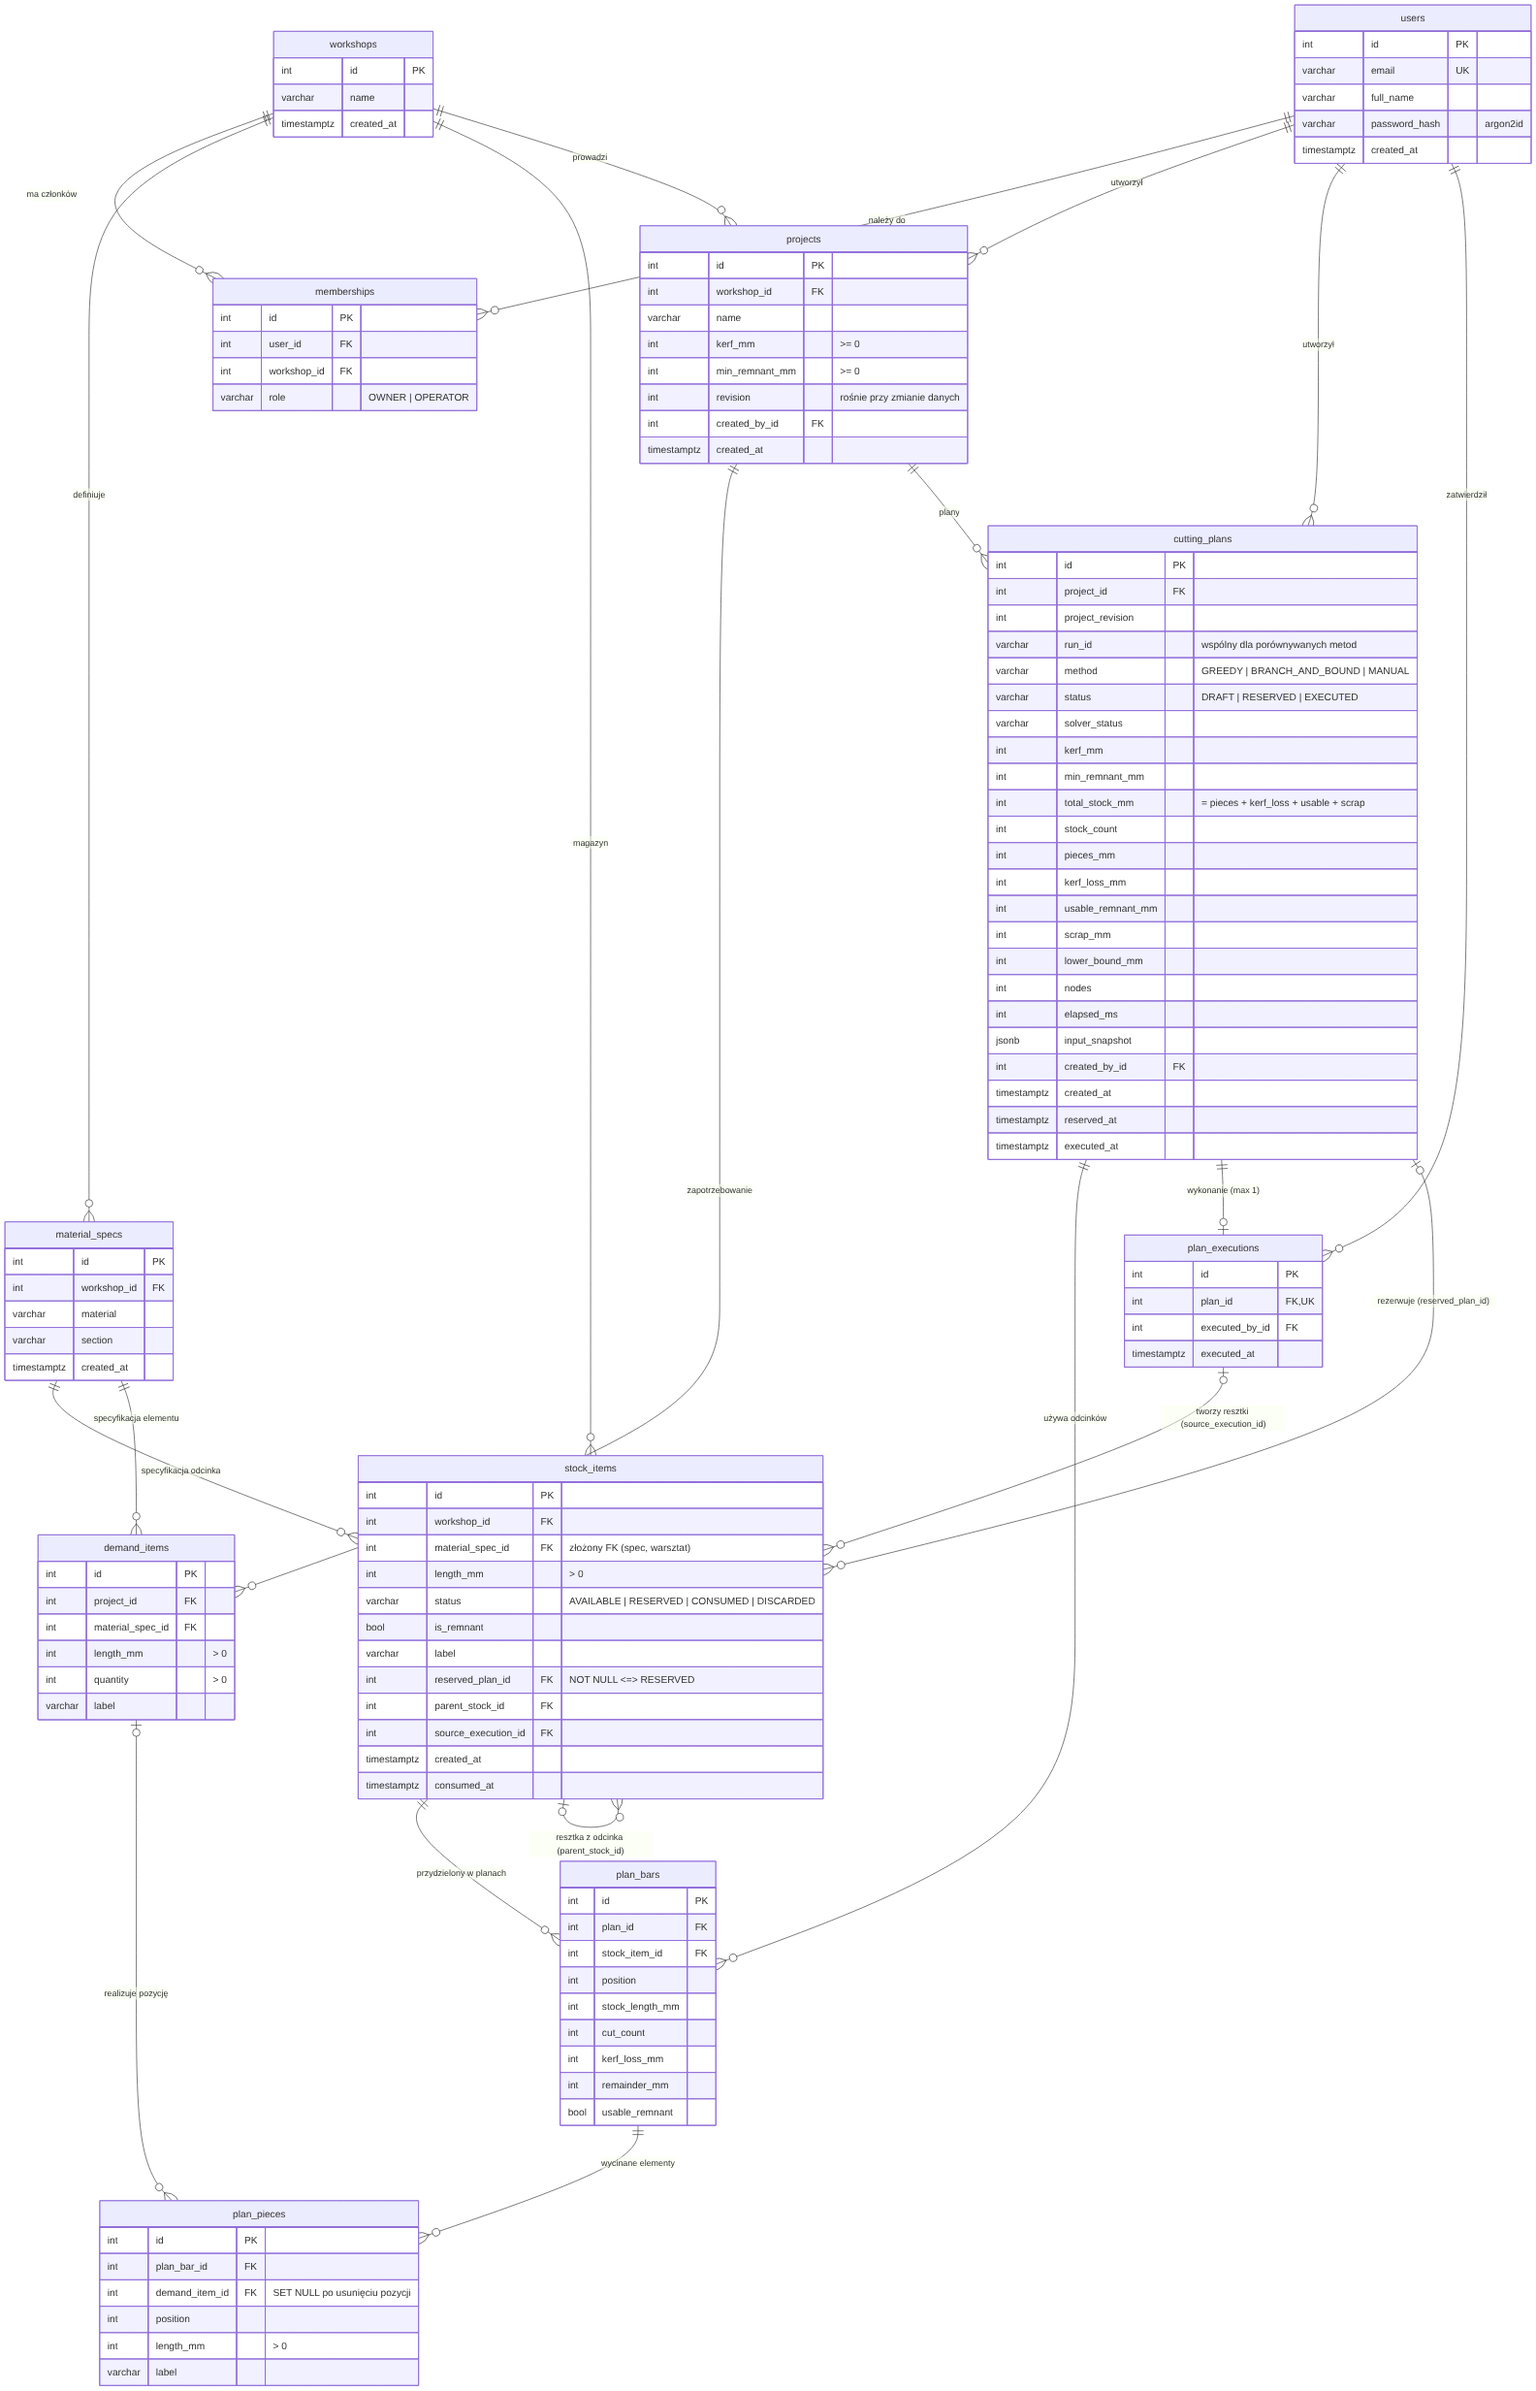
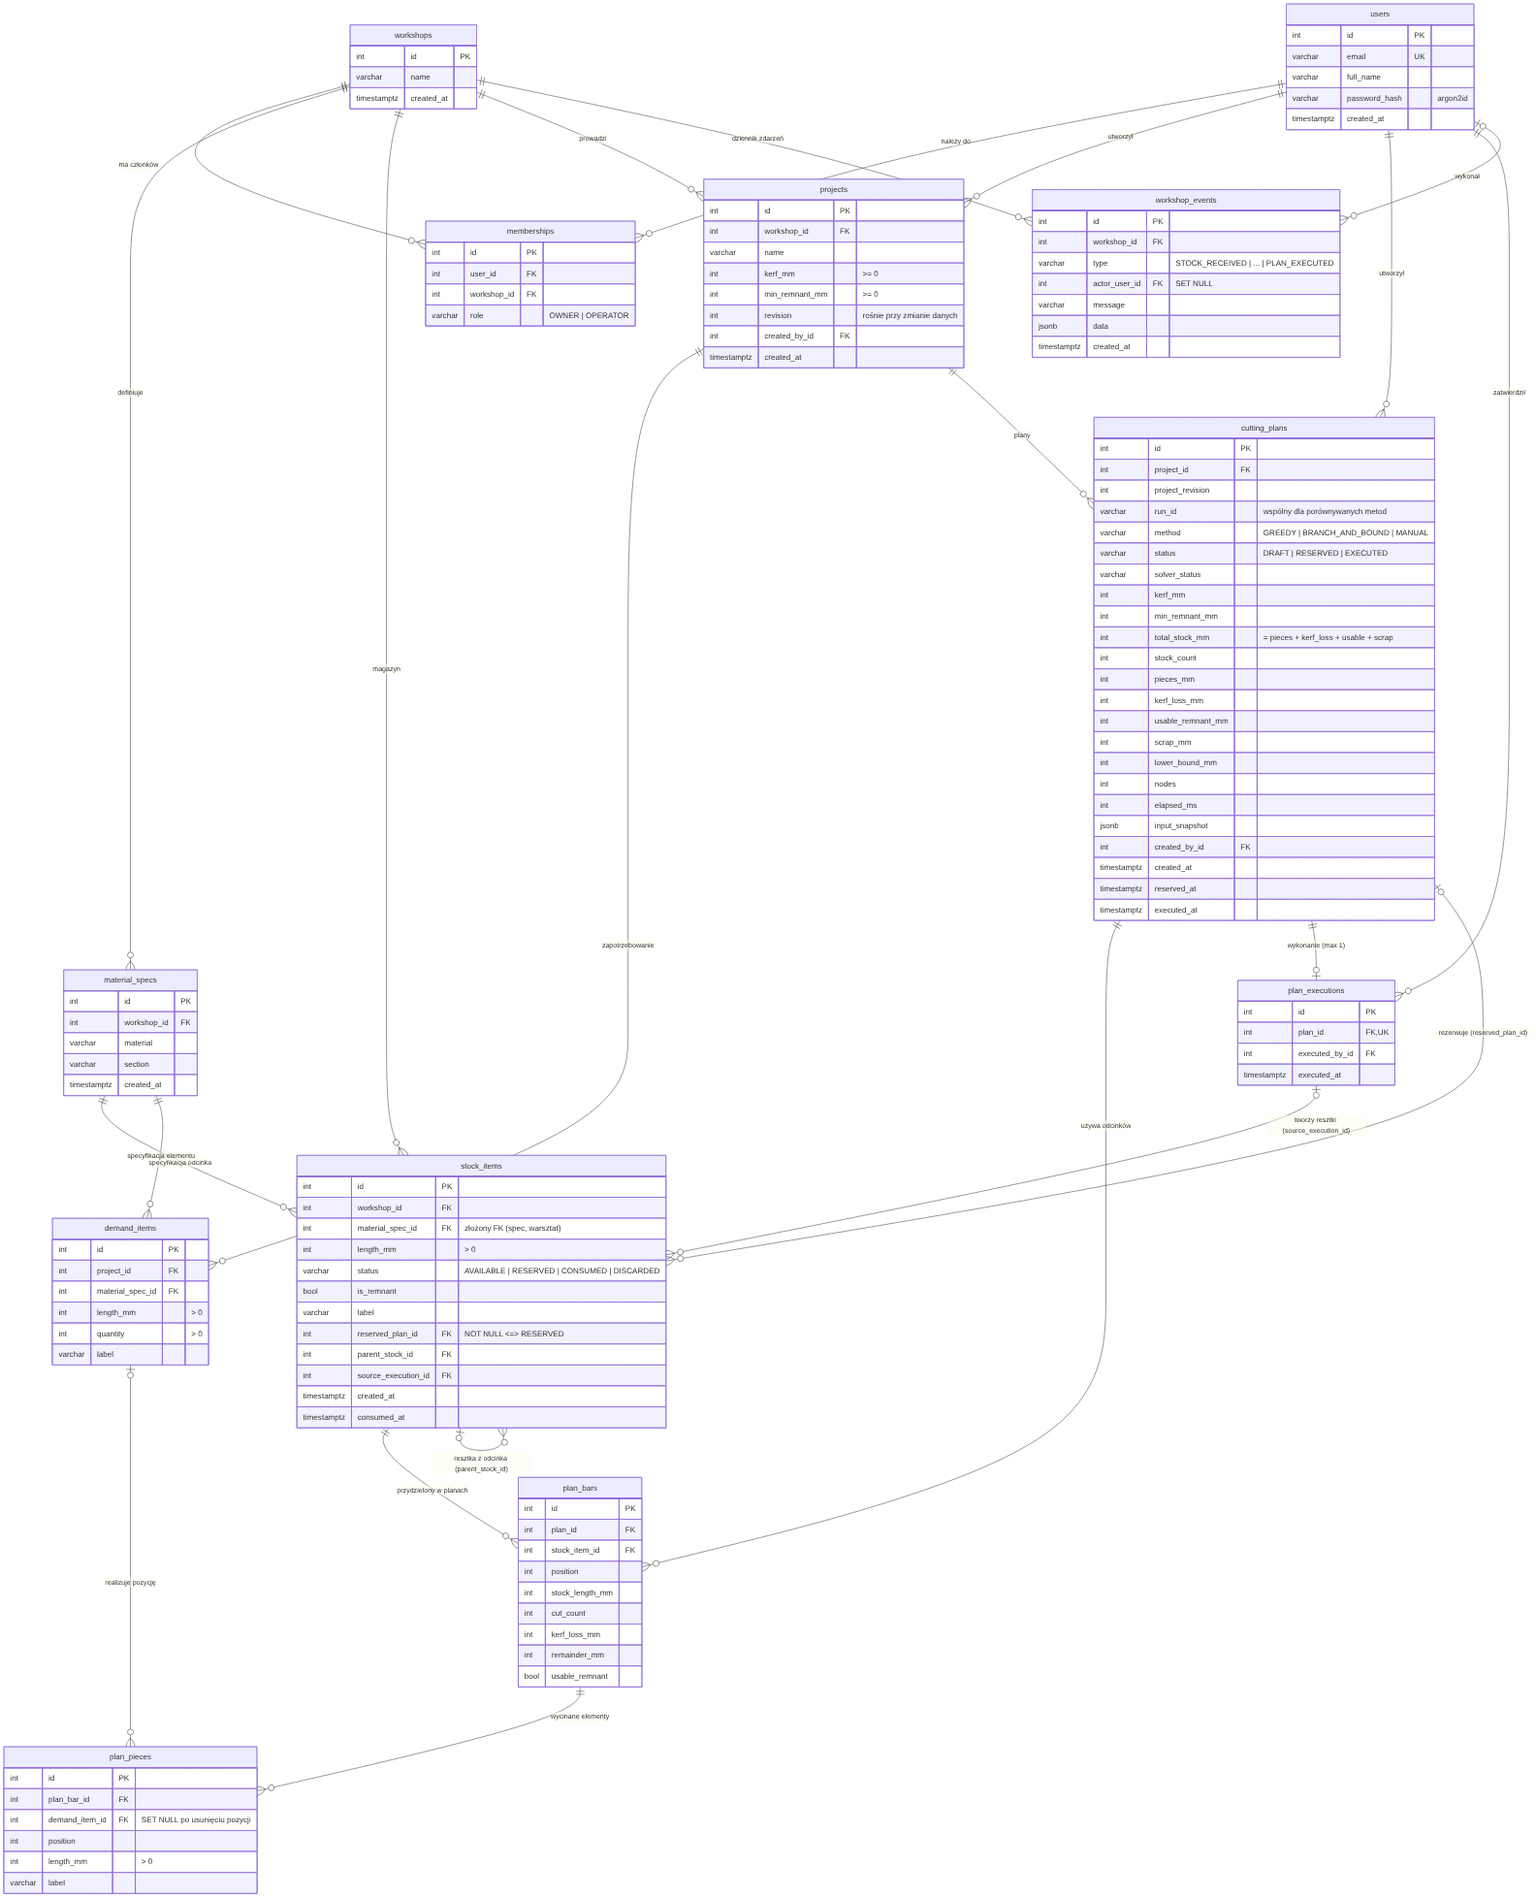
docs: document events, pagination, CI, ERD and REST API in README

diff --git a/README.md b/README.md
@@ -1,5 +1,7 @@
 # Offcut — optymalizacja cięcia materiałów i wykorzystania resztek
 
+[![CI](https://github.com/wokapala/offcut/actions/workflows/ci.yml/badge.svg)](https://github.com/wokapala/offcut/actions/workflows/ci.yml)
+
 Aplikacja webowa dla majsterkowiczów i małych warsztatów. Na podstawie fizycznych odcinków w magazynie
 (nowych listew i resztek z wcześniejszych prac) oraz zapotrzebowania (długość × liczba sztuk) wylicza
 plan cięcia z uwzględnieniem **szerokości rzazu**, porównuje **heurystykę zachłanną** z dokładniejszym
@@ -7,6 +9,8 @@ plan cięcia z uwzględnieniem **szerokości rzazu**, porównuje **heurystykę z
 i zapisuje użyteczne resztki.
 
 Projekt indywidualny z przedmiotu ZTPAI (Politechnika Krakowska, zima 2026/27).
+
+**Demo video (3–5 min):** _link do nagrania – do uzupełnienia_ · **Prezentacja:** [`docs/prezentacja.pdf`](docs/prezentacja.pdf)
 
 ## Funkcjonalności
 
@@ -22,7 +26,10 @@ Projekt indywidualny z przedmiotu ZTPAI (Politechnika Krakowska, zima 2026/27).
 * rezerwacja materiału z ochroną przed podwójną rezerwacją (blokady w PostgreSQL),
 * zatwierdzanie wykonania – idempotentne, atomowe zużycie odcinków i zapis resztek do magazynu,
 * unieważnianie planów po zmianie zapotrzebowania lub parametrów,
-* plan ręczny przez API (ten sam walidator bilansu co algorytmy).
+* plan ręczny przez API (ten sam walidator bilansu co algorytmy),
+* **dziennik zdarzeń warsztatu** (przyjęcia, optymalizacje, rezerwacje, wykonania) zapisywany
+  **asynchronicznie** przez system zdarzeń domenowych, z **paginacją** i filtrem typu,
+* filtrowanie i paginacja magazynu (`limit` / `offset`, nagłówek `X-Total-Count`).
 
 ## Stack
 
@@ -32,6 +39,7 @@ Projekt indywidualny z przedmiotu ZTPAI (Politechnika Krakowska, zima 2026/27).
 | Baza | PostgreSQL 16 |
 | Frontend | React 19, TypeScript, Vite, react-router |
 | Testy | pytest (na PostgreSQL), Playwright (przepływ w przeglądarce) |
+| CI | GitHub Actions: testy backendu na PostgreSQL, build frontendu, build obrazów Docker |
 | Uruchomienie | Docker Compose (PostgreSQL + backend + nginx z frontendem) |
 
 Zależności są zablokowane: `backend/uv.lock` (+ `backend/requirements.txt` z hashami dla obrazu Docker),
@@ -139,7 +147,9 @@ Scenariusz prezentacji: [`docs/DEMO.md`](docs/DEMO.md).
 
 ## Testy
 
-Backend – testy działają na **prawdziwym PostgreSQL** (transakcje, blokady, ograniczenia), nie na SQLite:
+Backend – **83 testy** (jednostkowe logiki biznesowej i integracyjne REST API) działają na
+**prawdziwym PostgreSQL** (transakcje, blokady, ograniczenia), nie na SQLite. Uruchamia je też
+GitHub Actions przy każdym pushu. Lokalnie:
 
 ```bash
 docker compose -f docker-compose.test.yml up -d
@@ -192,6 +202,43 @@ Plan wykonany – resztki wracają do magazynu:
 ![Plan wykonany](docs/screenshots/07-plan-wykonany.png)
 
 Pozostałe ekrany: [`docs/screenshots/`](docs/screenshots/).
+
+## Model danych (ERD)
+
+12 tabel (migracje Alembic `0001`, `0002`). Najważniejsza jest `stock_items` – każdy fizyczny odcinek
+to osobny wiersz ze statusem i pochodzeniem resztki. Opis tabel i ograniczeń: [`docs/ERD.md`](docs/ERD.md).
+
+![Diagram ERD](docs/erd.png)
+
+## Dokumentacja REST API
+
+* Swagger UI (OpenAPI) po uruchomieniu: **http://localhost:8080/api/docs**; specyfikacja w repo:
+  [`docs/openapi.json`](docs/openapi.json),
+* opis kluczowych operacji, uprawnień i kodów błędów: [`docs/API.md`](docs/API.md).
+
+| Zasób | Endpointy (prefiks `/api`) |
+|---|---|
+| Logowanie | `POST /auth/login`, `POST /auth/logout`, `GET /auth/me`, `POST /auth/register` |
+| Magazyn | `GET/POST /workshops/{id}/stock` (filtry, paginacja), `GET/DELETE /stock/{id}` |
+| Materiały | `GET/POST /workshops/{id}/materials`, `DELETE /materials/{id}` |
+| Projekty | `GET/POST /workshops/{id}/projects`, `GET/PATCH /projects/{id}` |
+| Zapotrzebowanie | `POST /projects/{id}/demand`, `PATCH/DELETE /demand/{id}` |
+| Optymalizacja i plany | `POST /projects/{id}/optimize`, `GET /projects/{id}/plans`, `GET /plans/{id}`, `POST /plans/{id}/reserve`, `/release`, `/execute` |
+| Dziennik zdarzeń | `GET /workshops/{id}/events?type=&limit=&offset=` |
+
+Błędy mają jednolity format `{"detail", "code", "problems"}`: 401, 403, 404, 409, 422.
+
+## Elementy rozszerzone
+
+* **Mechanizm asynchroniczny – system zdarzeń domenowych** (`backend/app/events.py`): po udanej
+  operacji endpoint publikuje zdarzenie (np. `PLAN_EXECUTED`), a handlery wykonują się jako zadania
+  w tle FastAPI (`BackgroundTasks`) – po wysłaniu odpowiedzi, we własnej sesji bazy. Handler zapisuje
+  dziennik zdarzeń warsztatu widoczny w zakładce **Historia**.
+* **CI w GitHub Actions** (`.github/workflows/ci.yml`): testy backendu na PostgreSQL, build frontendu
+  i build obrazów Docker przy każdym pushu.
+* **Kontrola współbieżności**: rezerwacja chroniona blokadami wierszy PostgreSQL (`SELECT … FOR UPDATE`),
+  a plany są wersjonowane rewizją projektu – plan wygenerowany dla starej wersji danych jest odrzucany
+  (409 `STALE_PLAN`).
 
 ## Funkcja zaawansowana: optymalizacja rozkroju 1D
 

diff --git a/docs/ERD.md b/docs/ERD.md
@@ -1,6 +1,6 @@
 # Diagram ERD
 
-Diagram odpowiada migracji `backend/alembic/versions/0001_initial_schema.py` (sprawdzony z
+Diagram odpowiada migracjom `backend/alembic/versions/0001_initial_schema.py` i `0002_workshop_event_log.py` (sprawdzony z
 `information_schema` bazy po `alembic upgrade head`). GitHub renderuje blok Mermaid automatycznie;
 wersja graficzna: [`erd.png`](erd.png).
 
@@ -26,6 +26,8 @@ erDiagram
     users ||--o{ projects : "utworzył"
     users ||--o{ cutting_plans : "utworzył"
     users ||--o{ plan_executions : "zatwierdził"
+    workshops ||--o{ workshop_events : "dziennik zdarzeń"
+    users |o--o{ workshop_events : "wykonał"
 
     users {
         int id PK
@@ -134,6 +136,15 @@ erDiagram
         int executed_by_id FK
         timestamptz executed_at
     }
+    workshop_events {
+        int id PK
+        int workshop_id FK
+        varchar type "STOCK_RECEIVED | ... | PLAN_EXECUTED"
+        int actor_user_id FK "SET NULL"
+        varchar message
+        jsonb data
+        timestamptz created_at
+    }
 ```
 
 ## Najważniejsze ograniczenia
@@ -154,5 +165,6 @@ erDiagram
 | `plan_bars` | `UNIQUE(plan_id, stock_item_id)`, `UNIQUE(plan_id, position)` | odcinek raz w planie |
 | `plan_executions` | `UNIQUE(plan_id)` | plan wykonany najwyżej raz |
 
-`input_snapshot` (JSONB) przechowuje tylko kopię wejścia algorytmu (długości, kandydaci, limity) do
+`workshop_events` to dziennik zdarzeń warsztatu, zapisywany asynchronicznie przez handler zdarzeń
+domenowych (indeks `(workshop_id, created_at)` pod paginację). `input_snapshot` (JSONB) przechowuje tylko kopię wejścia algorytmu (długości, kandydaci, limity) do
 audytu – relacje planu są w tabelach `plan_bars` i `plan_pieces`.

diff --git a/docs/API.md b/docs/API.md
@@ -89,8 +89,17 @@ walidatorem bilansu co wyniki algorytmów. 422 `INVALID_PLAN` z listą problemó
 elementy się nie mieszczą z rzazem, niepełne pokrycie). Dostępny tylko przez API.
 
 ### Magazyn
-`GET /api/workshops/{id}/stock?status=AVAILABLE|RESERVED|CONSUMED|DISCARDED|ALL&material_spec_id=&remnants_only=`
-– każdy odcinek osobno, z pochodzeniem (`parent_stock_id`, `source_plan_id`).
+`GET /api/workshops/{id}/stock?status=AVAILABLE|RESERVED|CONSUMED|DISCARDED|ALL&material_spec_id=&remnants_only=&limit=100&offset=0`
+– każdy odcinek osobno, z pochodzeniem (`parent_stock_id`, `source_plan_id`). **Paginacja:** `limit`
+(1–500) i `offset`; łączna liczba wyników (po filtrach) w nagłówku `X-Total-Count`.
 `POST /api/workshops/{id}/stock` `{"material_spec_id", "length_mm", "quantity", "is_remnant", "label"}`
 tworzy `quantity` osobnych odcinków. `DELETE /api/stock/{id}` wycofuje odcinek (`DISCARDED`) – historia
 zostaje.
+
+### Dziennik zdarzeń (paginacja, filtrowanie, zdarzenia asynchroniczne)
+`GET /api/workshops/{id}/events?type=PLAN_EXECUTED&limit=20&offset=0` →
+`{"items": [...], "total": 7, "limit": 20, "offset": 0}`, od najnowszych.
+Typy: `STOCK_RECEIVED`, `STOCK_DISCARDED`, `OPTIMIZATION_FINISHED`, `PLAN_RESERVED`, `PLAN_RELEASED`,
+`PLAN_EXECUTED`. Wpisy tworzy asynchronicznie handler zdarzeń domenowych (`app/events.py`): endpoint po
+udanej operacji publikuje zdarzenie, a FastAPI `BackgroundTasks` zapisuje je po wysłaniu odpowiedzi.
+Ponowienie wykonania planu nie tworzy drugiego wpisu. Inny warsztat → 404, nieznany typ → 422.

diff --git a/docs/IMPLEMENTATION_STATUS.md b/docs/IMPLEMENTATION_STATUS.md
@@ -1,6 +1,6 @@
 # Stan projektu
 
-Stan na **20.11.2026**. Zakres ze zgłoszenia projektu jest zaimplementowany i sprawdzony.
+Stan na **21.11.2026**. Zakres ze zgłoszenia projektu jest zaimplementowany i sprawdzony.
 
 ## Co działa
 
@@ -15,12 +15,17 @@ Stan na **20.11.2026**. Zakres ze zgłoszenia projektu jest zaimplementowany i s
   wykonanie planu, komunikaty konfliktów.
 * Docker Compose: `db` (healthcheck, wolumen) → `backend` (migracje) → `frontend` (nginx + proxy `/api`).
 * Dane demo – opcjonalne i idempotentne (3 konta, 4 projekty, 22 odcinki).
+* System zdarzeń domenowych: zdarzenia publikowane po udanych operacjach, obsługiwane asynchronicznie
+  (`BackgroundTasks`), zapisywane w dzienniku warsztatu (migracja `0002`) – zakładka **Historia**
+  z paginacją i filtrem typu. Magazyn: paginacja `limit`/`offset` + `X-Total-Count`.
+* CI w GitHub Actions.
 
 ## Jak sprawdzono
 
 | Sprawdzenie | Wynik |
 |---|---|
-| `cd backend && uv run pytest` (PostgreSQL 16) | 79 passed |
+| `cd backend && uv run pytest` (PostgreSQL 16) | 83 passed |
+| GitHub Actions (`.github/workflows/ci.yml`) | testy backendu, build frontendu i obrazów Docker – zielone |
 | `cd frontend && npm run build` | bez błędów |
 | `docker compose up` od pustej bazy | `db` i `backend` healthy, `/api/health` 200, Swagger 200 |
 | start bez danych demo | aplikacja działa; logowanie kontem demo odrzucone |
